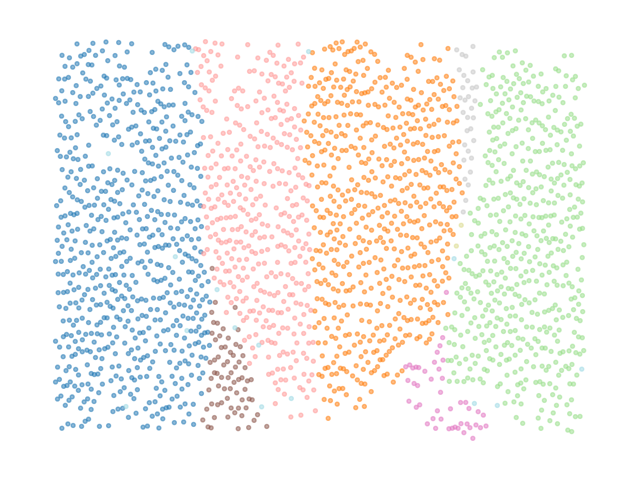
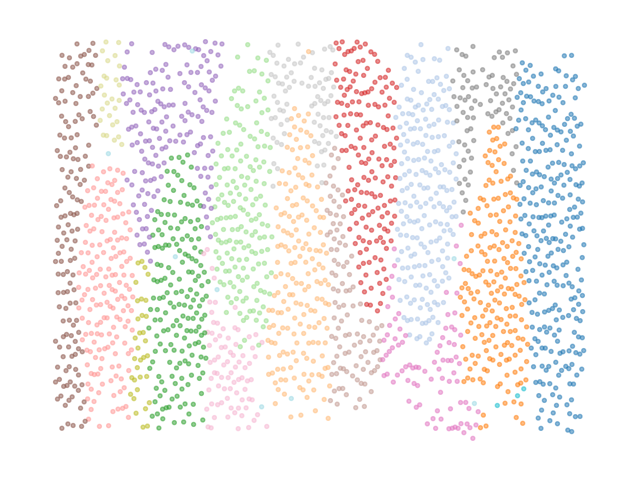
.

Changed region(s): [[0.0625, 0.0625, 0.9375, 0.9062], [0.75, 0.8438, 0.7812, 0.9062], [0.875, 0.0938, 0.9062, 0.125]]

diff --git a/scrips/manual_clustering.py b/scrips/manual_clustering.py
@@ -110,7 +110,7 @@ for item in layer_0_results_d:
 
 
 #Choose threshold percentile
-pct_d = 15
+pct_d = 85
 
 threshold_distance = np.percentile(scores_0_d, pct_d)
 
@@ -186,7 +186,7 @@ G_both.add_nodes_from([int(fid) for fid in fibre_ids])
 
 #Build graph directly from thresholds
 #Maximum physical interaction radius
-max_radius = 25
+max_radius = 50
 
 for i in range(len(fibre_ids)):
     fid_i = int(fibre_ids[i])
@@ -253,7 +253,7 @@ G_cluster = G_both.copy()
 #G_cluster.remove_nodes_from(list(nx.isolates(G_cluster)))
 
 #Creates clusters based on densely populated nodes
-communities = nx.community.greedy_modularity_communities(G_cluster, weight="weight", cutoff=10)
+communities = nx.community.greedy_modularity_communities(G_cluster, weight="weight", resolution=5, cutoff=10)
 clusters = [sorted(list(c)) for c in communities]
 
 #Remove tiny clusters
